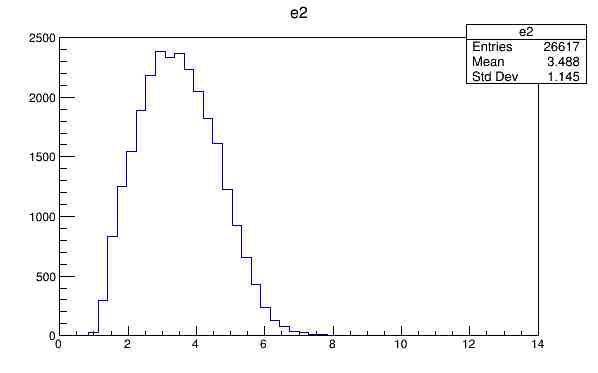
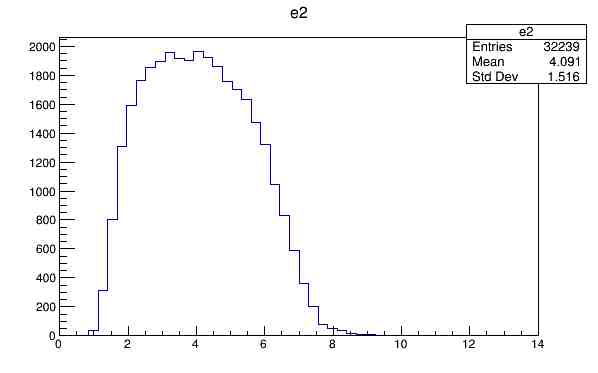
Changed to 13 TeV

diff --git a/analysis-code/fastjet-analysis.cc b/analysis-code/fastjet-analysis.cc
@@ -57,14 +57,15 @@ void root_to_fastjet(Float_t *px,Float_t *py,Float_t *pz,Float_t *e,Int_t *parti
   }
 // Calculating e_2
   // Reclustering  Params
-  Rparam = 0.8;
+  /*Rparam = 0.8;
   strategy = fastjet::Best;
   recombScheme = fastjet::WTA_pt_scheme;
   jetDef = fastjet::JetDefinition(fastjet::cambridge_algorithm, Rparam,
                                       recombScheme, strategy);
    fastjet::ClusterSequence clustSeq2(soft_jets_temp, jetDef);
   std::vector<fastjet::PseudoJet> soft_jets = fastjet::sorted_by_pt(clustSeq2.inclusive_jets(0.0));
-  // std::vector<fastjet::PseudoJet> soft_jets = fastjet::sorted_by_pt(soft_jets_temp);
+  */
+   std::vector<fastjet::PseudoJet> soft_jets = fastjet::sorted_by_pt(soft_jets_temp);
   double e_2 = 0;
   for( unsigned ijet = 0; ijet < soft_jets.size();ijet++){
     if(soft_jets[ijet].pt() < ptcutoff) continue;

diff --git a/README.md b/README.md
@@ -37,17 +37,5 @@ Reference for the formula of e_2 [[https://arxiv.org/pdf/1704.03878.pdf]]
 ### Gluons
 ![](./plots/1e5/zcut_0.2_beta_2/log_e2_gluons.jpg)
 
-# Using different parameters
-using R = 0.8
-
-Z_cut = 0.1 and beta = 0.1
-
-and recluster using CA and WTA
-
-### Quarks
-
-![](./plots/1e5/zcut_0.1_beta_1/quarks.jpg)
-### Gluons
-![](./plots/1e5/zcut_0.1_beta_1/gluons.jpg)
 # LOG
 I have created a file called ![log.org](./log.org) . Progress will be updated there.
